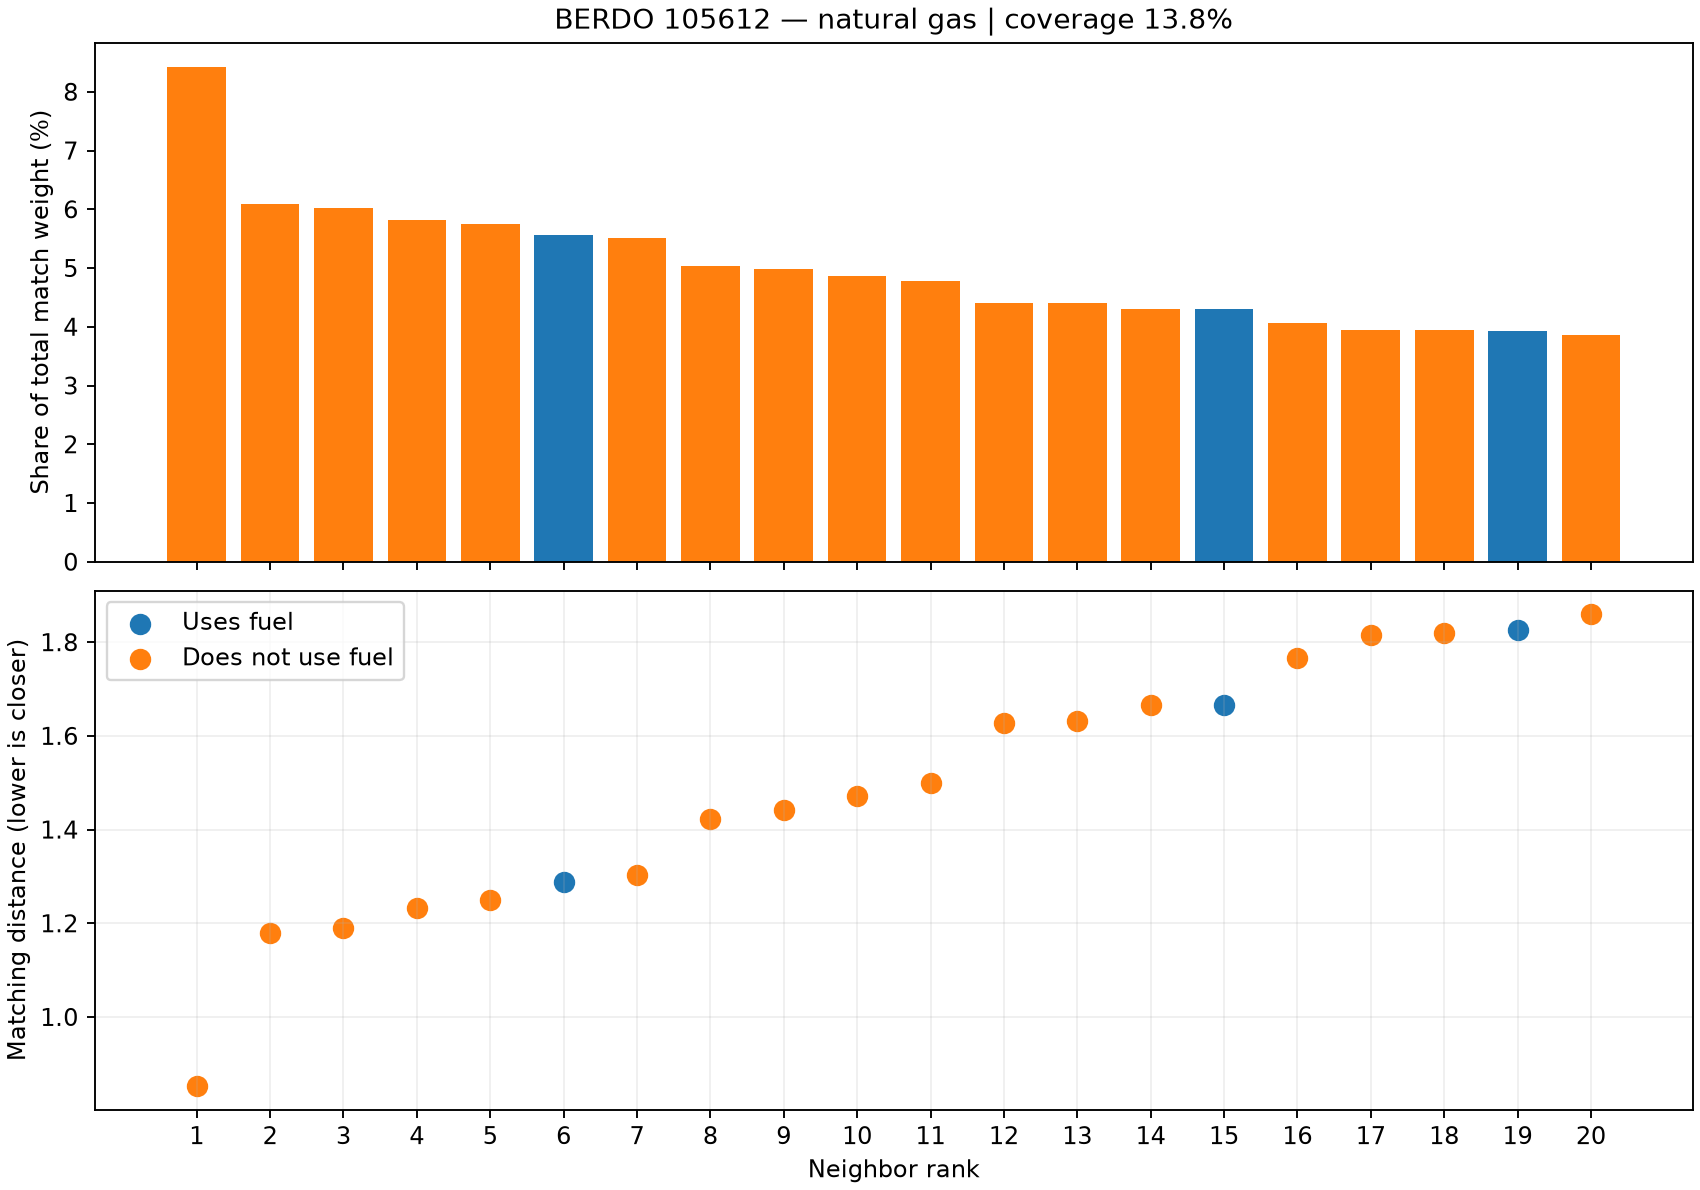
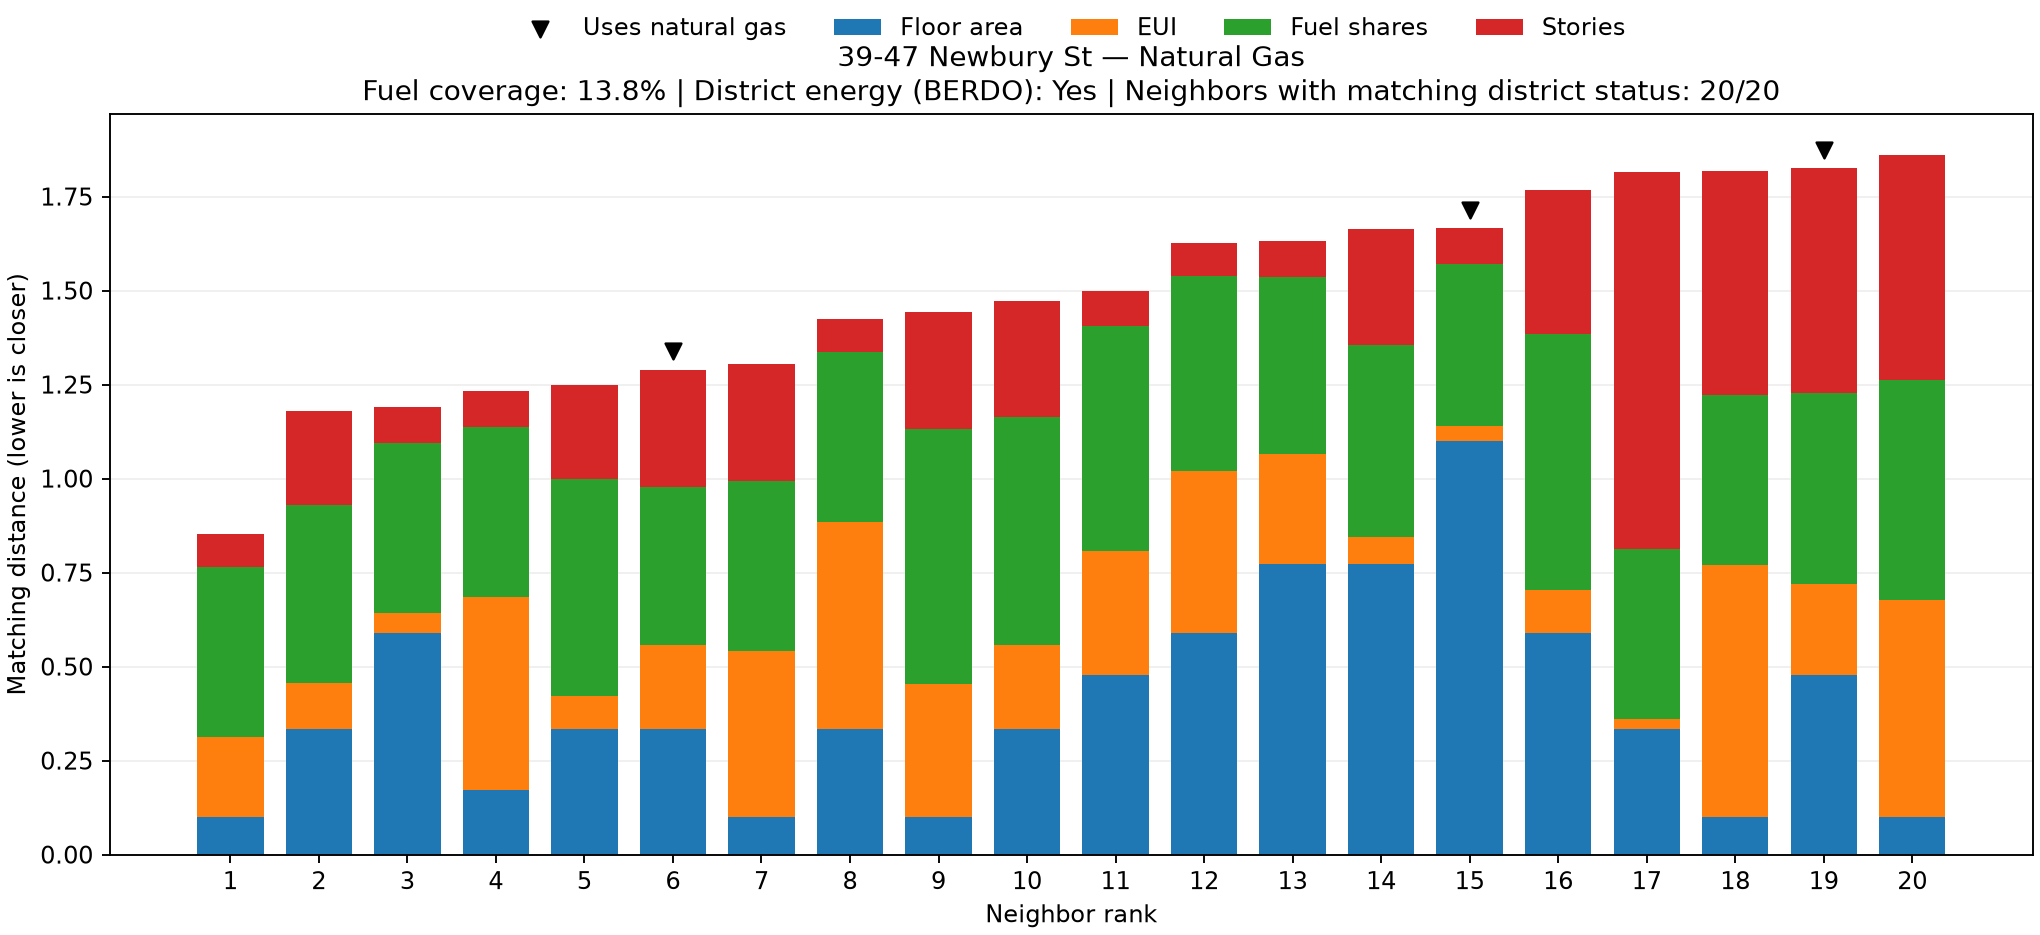
Improve fuel compatibility diagnostics and visualizations

diff --git a/dbt/analyses/inspect_fuel_neighbors.py b/dbt/analyses/inspect_fuel_neighbors.py
@@ -18,6 +18,7 @@ VALID_FUELS = {'electricity', 'natural_gas', 'oil_propane', 'district_heating', 
 SQL = """
 SELECT
     m.berdo_id,
+    b.building_address,
     m.comstock_id,
     m.match_rank,
     m.distance,
@@ -26,6 +27,16 @@ SELECT
     m.eui_gap,
     m.fuel_share_gap,
     m.stories_gap,
+    CASE
+        WHEN COALESCE(b.district_heating_kwh, 0) > 0
+          OR COALESCE(b.district_cooling_kwh, 0) > 0
+        THEN TRUE ELSE FALSE
+    END AS berdo_uses_district,
+    CASE
+        WHEN COALESCE(c.district_heating_kwh, 0) > 0
+          OR COALESCE(c.district_cooling_kwh, 0) > 0
+        THEN TRUE ELSE FALSE
+    END AS neighbor_uses_district,
     c.{fuel}_kwh AS baseline_fuel_kwh,
     b.{fuel}_kwh AS berdo_fuel_kwh,
     b.ghg_kgco2e AS berdo_total_ghg_kgco2e,
@@ -70,21 +81,88 @@ def analyze_case(con, berdo_id, fuel):
     stem = f'{berdo_id}_{fuel}'
     df.to_csv(OUT / f'{stem}_neighbors.csv', index=False)
 
-    fig, axes = plt.subplots(2, 1, figsize=(10, 7), sharex=True, layout='constrained')
-    colors = df['uses_fuel'].map({True: 'tab:blue', False: 'tab:orange'})
-    axes[0].bar(df['match_rank'], df['weight_share_pct'], color=colors)
-    axes[0].set_ylabel('Share of total match weight (%)')
-    axes[0].set_title(f'BERDO {berdo_id} — {fuel.replace("_", " ")} | coverage {coverage:.1f}%')
-    axes[1].scatter(df.loc[df['uses_fuel'], 'match_rank'], df.loc[df['uses_fuel'], 'distance'],
-                    label='Uses fuel', color='tab:blue', s=65)
-    axes[1].scatter(df.loc[~df['uses_fuel'], 'match_rank'], df.loc[~df['uses_fuel'], 'distance'],
-                    label='Does not use fuel', color='tab:orange', s=65)
-    axes[1].set_ylabel('Matching distance (lower is closer)')
-    axes[1].set_xlabel('Neighbor rank')
-    axes[1].legend()
-    axes[1].grid(alpha=0.2)
-    axes[1].set_xticks(sorted(df['match_rank'].dropna().unique()))
-    fig.savefig(OUT / f'{stem}_neighbors.png', dpi=170)
+    # Check that distance components reproduce the matching distance.
+    components = ["size_gap", "eui_gap", "fuel_share_gap", "stories_gap"]
+
+    calculated_distance = df[components].sum(axis=1)
+    max_difference = (calculated_distance - df["distance"]).abs().max()
+
+    if max_difference > 1e-5:
+        print(
+            f"WARNING: Distance components differ from total distance "
+            f"by up to {max_difference:.6f}"
+        )
+
+    # Check district-energy compatibility.
+    berdo_district = bool(df["berdo_uses_district"].iloc[0])
+    district_agreement = (
+        df["neighbor_uses_district"] == berdo_district
+    ).sum()
+
+    print(
+        f"  BERDO uses district energy: {berdo_district} | "
+        f"District-compatible neighbors: {district_agreement}/{len(df)}"
+    )
+
+    # Create one stacked distance chart per BERDO building.
+    fig, ax = plt.subplots(figsize=(12, 5.5), layout="constrained")
+
+    ranks = df["match_rank"].to_numpy()
+    bottoms = pd.Series(0.0, index=df.index)
+
+    component_labels = {
+        "size_gap": "Floor area",
+        "eui_gap": "EUI",
+        "fuel_share_gap": "Fuel shares",
+        "stories_gap": "Stories",
+    }
+
+    for component in components:
+        ax.bar(
+            ranks,
+            df[component],
+            bottom=bottoms,
+            label=component_labels[component],
+            width=0.75,
+        )
+        bottoms += df[component]
+
+    # Mark neighbors that consume the investigated fuel.
+    fuel_users = df["uses_fuel"]
+
+    ax.scatter(
+        df.loc[fuel_users, "match_rank"],
+        df.loc[fuel_users, "distance"] + 0.05,
+        marker="v",
+        color="black",
+        s=45,
+        label=f"Uses {fuel.replace('_', ' ')}",
+        zorder=5,
+    )
+
+    district_label = "Yes" if berdo_district else "No"
+
+    ax.set_title(
+        f"{df['building_address'].iloc[0] if 'building_address' in df else f'BERDO {berdo_id}'}"
+        f" — {fuel.replace('_', ' ').title()}\n"
+        f"Fuel coverage: {coverage:.1f}% | "
+        f"District energy (BERDO): {district_label} | "
+        f"Neighbors with matching district status: {district_agreement}/{len(df)}"
+    )
+
+    ax.set_xlabel("Neighbor rank")
+    ax.set_ylabel("Matching distance (lower is closer)")
+    ax.set_xticks(ranks)
+    ax.grid(axis="y", alpha=0.2)
+    ax.set_axisbelow(True)
+    ax.legend(
+        loc="upper center",
+        bbox_to_anchor=(0.5, 1.16),
+        ncol=5,
+        frameon=False,
+    )
+
+    fig.savefig(OUT / f"{stem}_neighbors.png", dpi=170)
     plt.close(fig)
 
 
